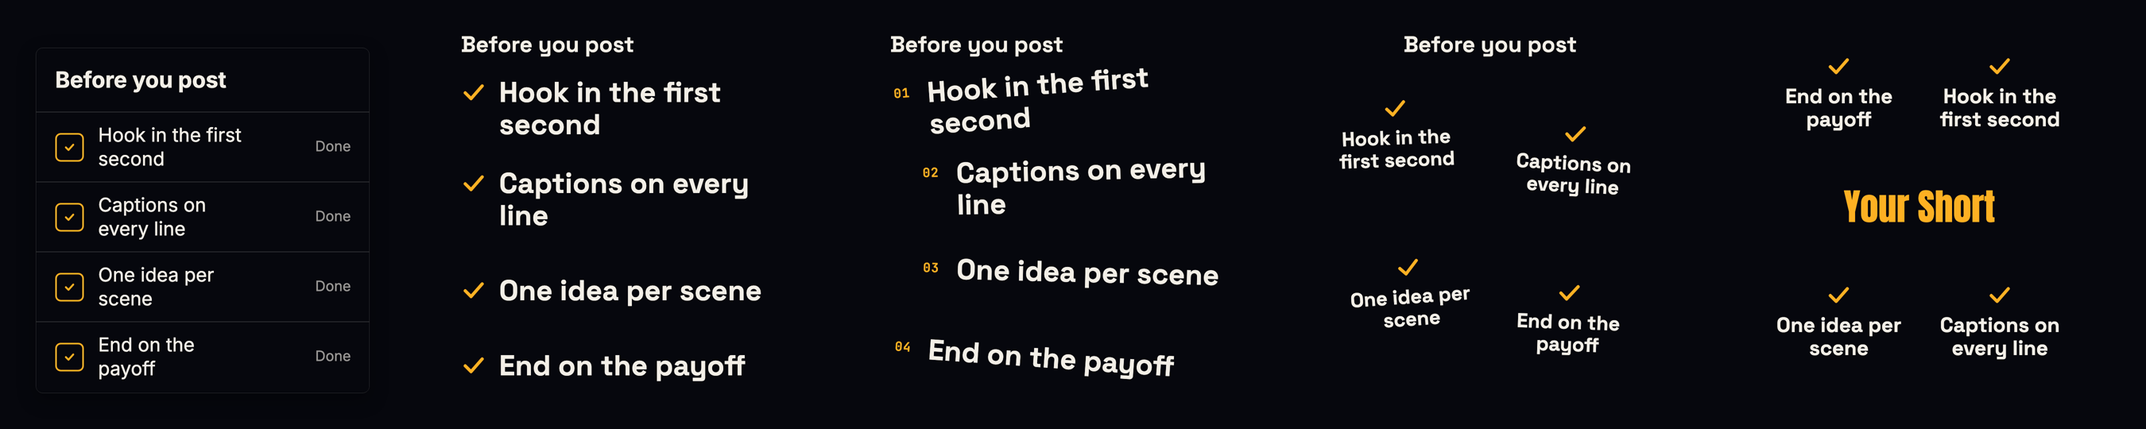
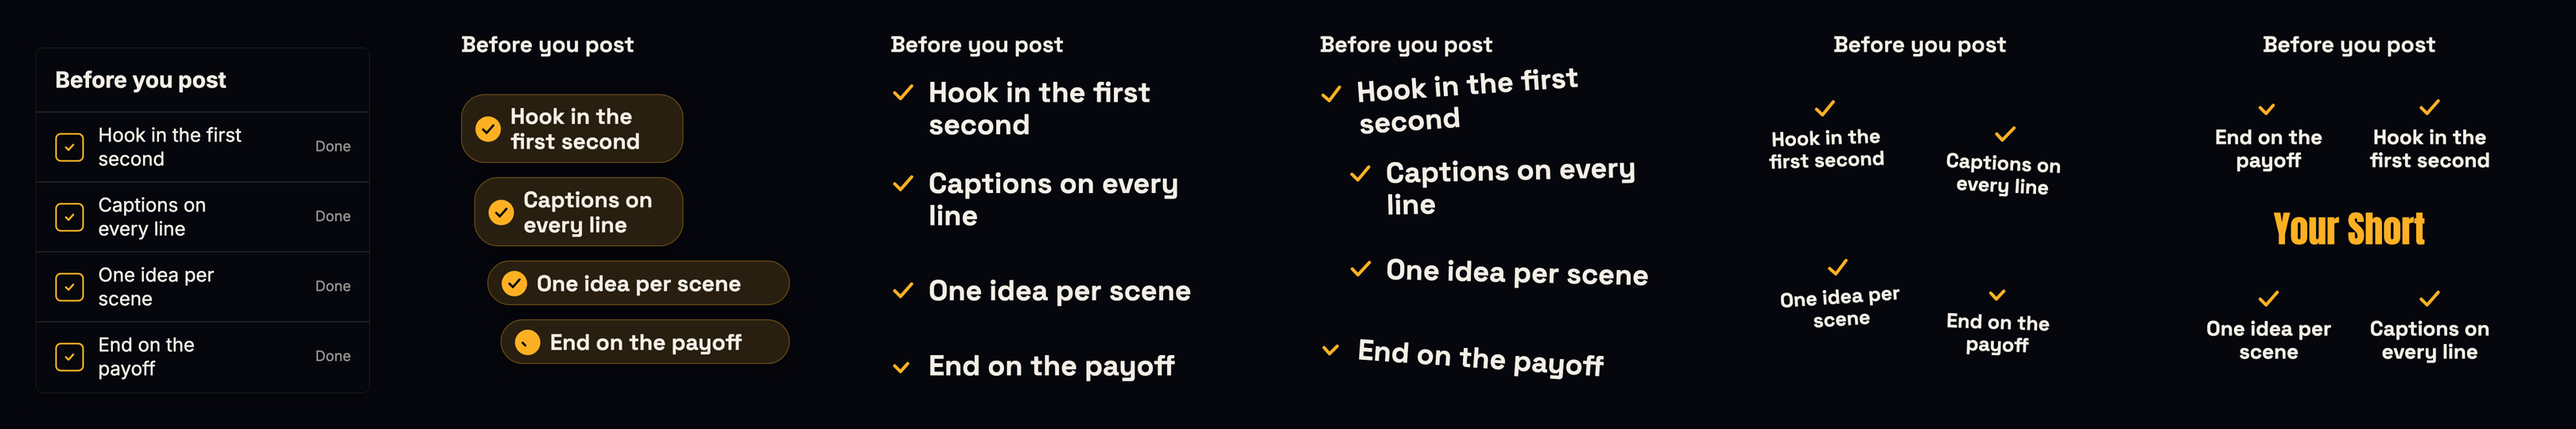
Pills in the director's list cycle, seeded styles and the docs; new stills

diff --git a/src/direction_guardrails.js b/src/direction_guardrails.js
@@ -458,7 +458,7 @@ export function varietyGate(story) {
   for (const shot of shots) counts.set(`${shot.set}|${shot.cast}`, [...(counts.get(`${shot.set}|${shot.cast}`) ?? []), shot.id]);
   for (const [key, ids] of counts) if (ids.length > 3) findings.push({ rule: "same-setup", severity: "warning", at: shots.find((shot) => shot.id === ids[3]).start, ids, detail: `${key.replace("|", " with ")} appears ${ids.length} times; vary the set or the cast` });
   // boxed-list: a checklist card (checkbox rows with status labels in one box) reads as a template, not a design.
-  for (const { entry, model } of entries.values()) if (model.module === "checklist") findings.push({ rule: "boxed-list", severity: "warning", at: entry.start, ids: [entry.id], detail: `${entry.id} draws its list as checkbox rows inside one card (${model.content.rows.length} rows), a tell of templated video; use item-list (each item its own element: stack, fan, scatter or orbit, ticks one at a time)` });
+  for (const { entry, model } of entries.values()) if (model.module === "checklist") findings.push({ rule: "boxed-list", severity: "warning", at: entry.start, ids: [entry.id], detail: `${entry.id} draws its list as checkbox rows inside one card (${model.content.rows.length} rows), a tell of templated video; use item-list (each item its own element: pills, stack, fan, scatter or orbit, ticks one at a time)` });
   // abstract-only (kit/core/explainer.mjs): nothing but line diagrams, step rows and text cards, with nothing pictured.
   const abstract = abstractFindings(story);
   if (abstract.abstract) findings.push({ rule: "abstract-only", severity: "error", at: 0, ids: [], detail: `all ${abstract.scenes} scenes are line diagrams, step rows and text cards (${abstract.modules.join(", ")}), with nothing pictured; show the subject: a character acting the line, an object, a photo, a chart of real figures or an interface, and keep diagrams as support` });

diff --git a/docs/KIT_CONTRACTS.md b/docs/KIT_CONTRACTS.md
@@ -6642,11 +6642,11 @@ polaroid a brand gradient with an icon, so nothing shows empty.
 
 A list (steps, features, a checklist) is never rows inside one card. `item-list`
 draws each item as its own element in the view tree (`<id>-item-<i>`), with its
-own entrance and settle, in free type with no panel behind it.
+own entrance and settle: its own pill chip, or free type with nothing behind it.
 
 | Module | Variants | Params (beyond title, at, rect) | Events | Build |
 | --- | --- | --- | --- | --- |
-| `item-list` | stack, fan, scatter, orbit | `items` 2–6 (string or `{label ≤ 40, detail? ≤ 60, at?, tickAt?}`), `ticks`, `numbered` (default true without ticks), `subject` ≤ 24 (orbit only, required there), `tone`, `stagger` | item-&lt;i&gt;, tick-&lt;i&gt; | Items enter in order, `stagger` apart (the motion grammar's stagger by default). stack: free type down the frame, each slides in from the left. fan: the stack bent on an arc (each item turned a few degrees), every item flies out from one pile to its place. scatter: a loose grid, each item tilted and dropped in with a small overshoot. orbit: the subject pops in the middle and the items fly out from it to an ellipse round it (the phase that keeps them clear of the subject; fails when none does). With `ticks`, each item's tick (`<id>-tick-<i>`) draws on by itself at `tickAt` (default just after the item enters) and the number, if any, fades |
+| `item-list` | pills, stack, fan, scatter, orbit | `items` 2–6 (string or `{label ≤ 40, detail? ≤ 60, at?, tickAt?}`), `ticks`, `numbered` (default true without ticks), `subject` ≤ 24 (orbit only, required there), `tone`, `stagger` | item-&lt;i&gt;, tick-&lt;i&gt; | Items enter in order, `stagger` apart (the motion grammar's stagger by default). pills (default): each item a rounded chip that hugs its label, cascading a step right down the frame; it pops in from the left, and with `ticks` its ring fills and pops before the check draws on (the filled disc is `<id>-tick-<i>`). stack: free type down the frame, each slides in from the left. fan: the stack bent on an arc (each item turned a few degrees), every item flies out from one pile to its place. scatter: a loose grid, each item tilted and dropped in with a small overshoot. orbit: the subject pops in the middle and the items fly out from it to an ellipse round it (the phase that keeps them clear of the subject; fails when none does). With `ticks`, each item's tick (`<id>-tick-<i>`) draws on by itself at `tickAt` (default just after the item enters) and the number, if any, fades |
 
 All items share the smallest fitted label size, so the list reads as one set,
 and each label block centres in its measured box (the text measure can count

diff --git a/skills-src/references/storyboard-modules.md b/skills-src/references/storyboard-modules.md
@@ -235,7 +235,7 @@ A footage-led story may hold top-level `sections: [{id, start, end, layout, side
 | runs something in a terminal ("clone the repo", "pip install", "run the tests", "38 scripts pass"): commands type, output streams PASS/FAIL rows, a ⏩ timer fast-forwards long runs | terminal-session |
 | gives a number, time, price or count | count-up |
 | gives a sourced figure that should stay on screen with captions | metric |
-| lists steps, features or duties: each item its own free-type element (stack, fan, scatter, or orbit round a subject), ticks one at a time with ticks: true | item-list |
+| lists steps, features or duties: each item its own element (pill chips, free-type stack, fan, scatter, or orbit round a subject), ticks one at a time with ticks: true | item-list |
 | explains a sequence or mechanism | process-steps |
 | walks through the stages of a workflow | step-rail |
 | names a law or formula | equation-lockup |
@@ -2413,7 +2413,7 @@ params:
 events: enter, beat, pose
 
 ### item-list (keeps captions)
-A list (steps, features, a checklist) as separate free-type items, each with its own entrance: stacked down the frame, fanned out from a pile, scattered with a tilt, or orbiting a subject. Ticks draw on one item at a time. Use this, not a boxed checklist card, for any list.
+A list (steps, features, a checklist) as separate items, each with its own entrance: its own pill chip cascading down the frame (default), free type stacked down the frame, fanned out from a pile, scattered with a tilt, or orbiting a subject. Ticks draw on one item at a time. Use this, not a boxed checklist card, for any list.
 params:
 - items: [string | {label ≤ 40, detail? ≤ 60, at?, tickAt?}] 2–6
 - title: string ≤ 48 (optional)
@@ -2426,7 +2426,7 @@ params:
 - variant: the module's designed look, one of its VARIANTS (optional; default: the style's variants[module], else the first)
 - rect: {x, y, width, height} canvas px inside the safe zone (optional) [guided and bespoke tiers only]
 events: item-<i>, tick-<i>
-variants: stack (default), fan, scatter, orbit
+variants: pills (default), stack, fan, scatter, orbit
 
 ### cast-scene (keeps captions)
 One to three animated characters in a set (desk-laptop, phone, meeting, screen, kitchen-counter, sofa, podium, stage, car, park-bench, video-call, standing-desk, standing), framed wide, medium or close, acting on cues: named poses and expressions at times or narration words, mouths moving on their lines, cuts in on a character. The screen set plays a real capture.

diff --git a/docs/ROADMAP.md b/docs/ROADMAP.md
@@ -15,7 +15,7 @@ LaunchClip's goal: **a SaaS founder points it at their product and gets a launch
 - Export to Final Cut Pro, Premiere Pro, DaVinci Resolve or OpenTimelineIO
 - **Demo autopilot:** point it at your SaaS codebase and it starts the app, records the key flows on safe demo data, and edits them in with zooms and callouts timed to every action ([guide](guide/demo-autopilot.md))
 - **Subject-aware effects:** in a talking-head recording, graphics can sit behind you (your product name behind your head, your app on the wall behind you, a dolly zoom), chosen by the art director like any other module, or put on a clip yourself with `launchclip fx` ([guide](guide/effects.md))
-- **Lists as separate items:** a list (steps, features, a checklist) is one free-type element per item, stacked, fanned, scattered or orbiting a subject, with ticks landing one at a time (`item-list`); the finish gate warns on a boxed checklist card
+- **Lists as separate items:** a list (steps, features, a checklist) is one element per item (its own pill chip, or free type stacked, fanned, scattered or orbiting a subject), with ticks landing one at a time (`item-list`); the finish gate warns on a boxed checklist card
 - Published on npm
 
 ## Next

diff --git a/docs/DIRECTION_GUARDRAILS.md b/docs/DIRECTION_GUARDRAILS.md
@@ -213,7 +213,7 @@ entrances and variants. The clamps only cap their timing.
     note while a repair can still fix it.
   - `boxed-list` (warning): a `checklist` scene, a list drawn as checkbox
     rows with status labels inside one card. It reads as a template; draw the
-    list with `item-list`, each item its own element (stack, fan, scatter or
+    list with `item-list`, each item its own element (pills, stack, fan, scatter or
     orbit, ticks landing one at a time).
 - **Planner prompt and skill: 9:16 composition.**
   - A card takes the top 30–40% of the frame and the cast stands in the lower
